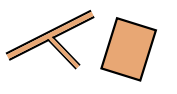
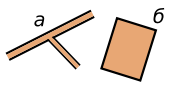
up

Changed region(s): [[0.8475, 0.0851, 0.9322, 0.2553], [0.1695, 0.1489, 0.2542, 0.2979]]

diff --git a/pages/symbols.md b/pages/symbols.md
@@ -47,6 +47,6 @@ permalink: /uz/
 Искусственные объекты
 ---------------------
 
-|![]({{ "assets/img/uz/m1.png" | relative_url }})| - |
+|![]({{ "assets/img/uz/m1.png" | relative_url }})| а - асфальтированные дороги<br/>б - территория с твёрдым покрытием |
 
 
